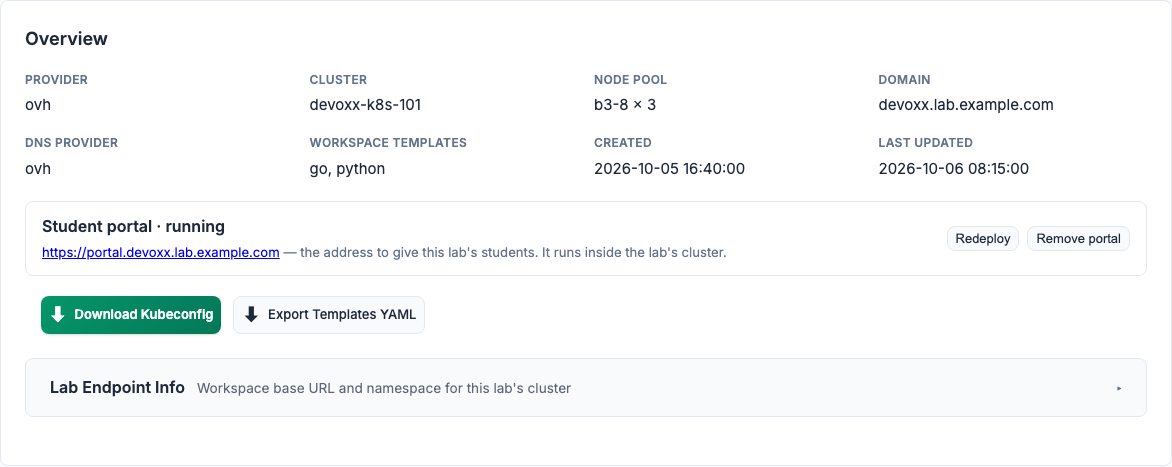
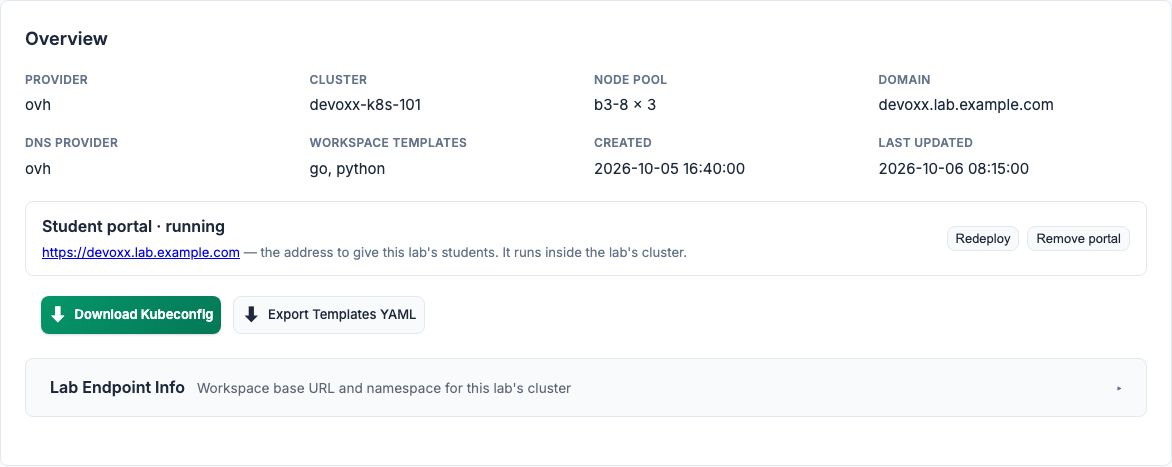
fix: URL for student portal

Changed region(s): [[0.0614, 0.5096, 0.6143, 0.5696]]

diff --git a/web/admin.html b/web/admin.html
@@ -631,7 +631,7 @@
                                 </label>
                             </div>
                             {{if .PortalAvailable}}
-                            <small>Runs the student portal inside the lab's own cluster, at <code>portal.&lt;lab domain&gt;</code>, next to the workspaces it hands out. Students of this lab then keep working even when this admin instance is unreachable. On by default; it can also be turned on or off later from the lab's page.</small>
+                            <small>Runs the student portal inside the lab's own cluster, on the lab's own domain, next to the workspaces it hands out. Students of this lab then keep working even when this admin instance is unreachable. On by default; it can also be turned on or off later from the lab's page.</small>
                             {{else}}
                             <small>Not available on this build: it is a development build, so there is no published EasyLab image of the same version for the portal to run. Students use this instance's student space instead. To try a portal anyway, set a portal image built from this code in <a href="/admin/student-portals">Student portals</a>.</small>
                             {{end}}

diff --git a/internal/providers/workspace/kube/portal_test.go b/internal/providers/workspace/kube/portal_test.go
@@ -54,7 +54,7 @@ func TestEnsurePortal_CreatesEverything(t *testing.T) {
 
 	url, err := b.EnsurePortal(ctx, spec)
 	require.NoError(t, err)
-	assert.Equal(t, "https://portal.lab.example.com", url)
+	assert.Equal(t, "https://lab.example.com", url)
 
 	name := portalName("lab-1")
 
@@ -95,7 +95,7 @@ func TestEnsurePortal_CreatesEverything(t *testing.T) {
 
 	ing, err := cs.NetworkingV1().Ingresses(portalTestNS).Get(ctx, name, metav1.GetOptions{})
 	require.NoError(t, err)
-	assert.Equal(t, "portal.lab.example.com", ing.Spec.Rules[0].Host)
+	assert.Equal(t, "lab.example.com", ing.Spec.Rules[0].Host)
 	require.Len(t, ing.Spec.TLS, 1)
 	assert.Equal(t, "easylab-wildcard-tls", ing.Spec.TLS[0].SecretName)
 	assert.NotContains(t, ing.Annotations, clusterIssuerAnnotation)
@@ -207,9 +207,9 @@ func TestEnsurePortal_TLSSources(t *testing.T) {
 		wantSecret    string
 		wantIssuer    string
 	}{
-		{name: "wildcard secret wins", wildcard: "wild", clusterIssuer: "letsencrypt", wantURL: "https://portal.lab.example.com", wantSecret: "wild"},
-		{name: "per-host certificate", clusterIssuer: "letsencrypt", wantURL: "https://portal.lab.example.com", wantSecret: portalName("lab-1") + "-tls", wantIssuer: "letsencrypt"},
-		{name: "no certificate source", wantURL: "http://portal.lab.example.com"},
+		{name: "wildcard secret wins", wildcard: "wild", clusterIssuer: "letsencrypt", wantURL: "https://lab.example.com", wantSecret: "wild"},
+		{name: "per-host certificate", clusterIssuer: "letsencrypt", wantURL: "https://lab.example.com", wantSecret: portalName("lab-1") + "-tls", wantIssuer: "letsencrypt"},
+		{name: "no certificate source", wantURL: "http://lab.example.com"},
 	}
 	for _, tt := range tests {
 		t.Run(tt.name, func(t *testing.T) {
@@ -260,7 +260,7 @@ func TestEnsurePortal_Reconciles(t *testing.T) {
 	spec.Config = map[string][]byte{"state.json": []byte("v2")}
 	url, err := b.EnsurePortal(ctx, spec)
 	require.NoError(t, err)
-	assert.Equal(t, "https://portal.new.example.com", url)
+	assert.Equal(t, "https://new.example.com", url)
 
 	name := portalName("lab-1")
 	dep, err := cs.AppsV1().Deployments(portalTestNS).Get(ctx, name, metav1.GetOptions{})
@@ -269,7 +269,7 @@ func TestEnsurePortal_Reconciles(t *testing.T) {
 
 	ing, err := cs.NetworkingV1().Ingresses(portalTestNS).Get(ctx, name, metav1.GetOptions{})
 	require.NoError(t, err)
-	assert.Equal(t, "portal.new.example.com", ing.Spec.Rules[0].Host)
+	assert.Equal(t, "new.example.com", ing.Spec.Rules[0].Host)
 	require.Len(t, ing.Spec.TLS, 1)
 	assert.Equal(t, "wild", ing.Spec.TLS[0].SecretName)
 
@@ -301,7 +301,7 @@ func TestEnsurePortal_NipIOFallback(t *testing.T) {
 	spec.ClusterIssuer = "letsencrypt"
 	url, err := b.EnsurePortal(ctx, spec)
 	require.NoError(t, err)
-	assert.Equal(t, "http://portal.203.0.113.7.nip.io", url)
+	assert.Equal(t, "http://203.0.113.7.nip.io", url)
 
 	role, err := cs.RbacV1().Roles(ingressControllerNamespace).Get(ctx, portalName("lab-1")+portalIngressAccessSuffix, metav1.GetOptions{})
 	require.NoError(t, err)

diff --git a/internal/server/portal_test.go b/internal/server/portal_test.go
@@ -238,7 +238,7 @@ func TestReconcilePortal_RecordsFailure(t *testing.T) {
 	t.Run("cluster refuses", func(t *testing.T) {
 		t.Setenv(EnvPortalImage, testPortalImage)
 		h, id, fb := newPortalLab(t, nil)
-		fb.portalEnsureErr = fmt.Errorf("portal host portal.lab.example.com is already used by lab job-other")
+		fb.portalEnsureErr = fmt.Errorf("portal host lab.example.com is already used by lab job-other")
 
 		h.reconcilePortal(id)
 		assert.Contains(t, h.portalError(id), "already used")
@@ -255,7 +255,7 @@ func TestReconcilePortal_RecordsFailure(t *testing.T) {
 		display = h.portalDisplayFor(context.Background(), mustJob(t, h, id))
 		assert.True(t, display.Deployed)
 		assert.True(t, display.Ready)
-		assert.Equal(t, "https://portal.lab.example.com", display.URL)
+		assert.Equal(t, "https://lab.example.com", display.URL)
 	})
 }
 
@@ -421,7 +421,7 @@ func TestBrokerPortal(t *testing.T) {
 
 		portalURL, secret, ok := h.BrokerPortal(id)
 		require.True(t, ok)
-		assert.Equal(t, "https://portal.lab.example.com", portalURL)
+		assert.Equal(t, "https://lab.example.com", portalURL)
 		assert.NotEmpty(t, secret)
 	})
 
@@ -433,7 +433,7 @@ func TestBrokerPortal(t *testing.T) {
 
 		portalURL, _, ok := h.BrokerPortal(id)
 		require.True(t, ok)
-		assert.Equal(t, "https://portal.lab.example.com", portalURL)
+		assert.Equal(t, "https://lab.example.com", portalURL)
 	})
 
 	refused := []struct {
@@ -711,7 +711,7 @@ func TestServeLabDetail_StudentPortal(t *testing.T) {
 	}{
 		{
 			name: "deployed portal", enabled: true, publicURL: "https://admin.example.com",
-			contains:     []string{"Student portal &middot; running", "https://portal.lab.example.com/student/login", "Redeploy", "Remove portal"},
+			contains:     []string{"Student portal &middot; running", "https://lab.example.com/student/login", "Redeploy", "Remove portal"},
 			doesNotMatch: []string{"Password sign-in only", "Deploy student portal"},
 		},
 		{

diff --git a/internal/providers/workspace/kube/portal.go b/internal/providers/workspace/kube/portal.go
@@ -42,8 +42,6 @@ const (
 	// controller's namespace for a lab without a domain (see ensurePortalRBAC).
 	portalIngressAccessSuffix = "-ingress"
 
-	// portalHostLabel is the DNS label the portal is served under: "portal.{domain}".
-	portalHostLabel = "portal"
 	// portalContainerPort is the port the EasyLab server listens on in the image.
 	portalContainerPort = 8080
 	portalContainerName = "portal"
@@ -453,7 +451,13 @@ func (b *Backend) EnsurePortal(ctx context.Context, spec workspace.PortalSpec) (
 		WildcardTLSSecret: spec.WildcardTLSSecret,
 		ClusterIssuer:     spec.ClusterIssuer,
 	})
-	host := workspaceHost(portalHostLabel, routed.Domain)
+	// The portal is served on the lab's domain itself, not a subdomain of it. That
+	// name is the one thing every lab with a domain is sure to have: provisioning
+	// creates its A record and puts it on the wildcard certificate, and a lab with
+	// manually managed DNS has it by definition — whereas a "portal." subdomain only
+	// resolves where a wildcard record happens to exist. Workspaces and the
+	// registry live on subdomains, so nothing else answers there.
+	host := strings.TrimSpace(routed.Domain)
 	if host != "" {
 		owner, err := b.portalHostOwner(ctx, spec.LabID, host)
 		if err != nil {

diff --git a/internal/server/broker_test.go b/internal/server/broker_test.go
@@ -18,7 +18,7 @@ import (
 const (
 	testBrokerSecret = "0123456789abcdefghijklmn"
 	testBrokerLab    = "job-lab"
-	testPortalURL    = "https://portal.lab.example.com"
+	testPortalURL    = "https://lab.example.com"
 	testAdminURL     = "https://admin.example.com"
 )
 
@@ -270,7 +270,7 @@ func TestBrokeredSignIn_EndToEnd(t *testing.T) {
 	require.Equal(t, http.StatusSeeOther, w.Code)
 	back, err := url.Parse(w.Header().Get("Location"))
 	require.NoError(t, err)
-	assert.Equal(t, "portal.lab.example.com", back.Host)
+	assert.Equal(t, "lab.example.com", back.Host)
 	assert.Equal(t, portalBrokerCallbackPath, back.Path)
 	assert.Empty(t, studentSessionEmails(central))
 	assert.Nil(t, cookieNamed(w, StudentSessionCookieName))

diff --git a/internal/providers/workspace/provider.go b/internal/providers/workspace/provider.go
@@ -409,7 +409,7 @@ type PortalSpec struct {
 	// Image is the EasyLab image the portal runs.
 	Image string
 	// Domain, WildcardTLSSecret and ClusterIssuer expose the portal the same way a
-	// workspace is exposed (see Spec): under "portal.{Domain}", with the lab's
+	// workspace is exposed (see Spec): on "{Domain}" itself, with the lab's
 	// wildcard certificate when it has one, else a per-host certificate. An empty
 	// Domain falls back to the backend's own routing (nip.io over plain HTTP).
 	Domain            string

diff --git a/internal/server/portal_fake_test.go b/internal/server/portal_fake_test.go
@@ -41,7 +41,7 @@ func newFakePortalBackend() *fakePortalBackend {
 	return &fakePortalBackend{
 		fakeBackend: fakeBackend{reachable: true},
 		outbox:      map[string]string{},
-		url:         "https://portal.lab.example.com",
+		url:         "https://lab.example.com",
 	}
 }
 

diff --git a/docs/student-portal.md b/docs/student-portal.md
@@ -11,8 +11,8 @@ inside each lab's own cluster**, next to the workspaces it hands out.
 
 What that changes:
 
-* **Each lab has its own address** for students — `https://portal.<lab domain>` — instead
-  of every lab sharing the central one.
+* **Each lab has its own address** for students — the lab's domain, `https://<lab domain>`
+  — instead of every lab sharing the central one.
 * **A lab keeps working without the admin.** The portal serves students from a copy of
   the lab's configuration stored in its cluster, so they can sign in with the password,
   request and open workspaces while the central instance is down or unreachable.
@@ -46,15 +46,18 @@ Nothing changes for an existing deployment: without the option, the mode is `all
   **Overview** tab has a **Student portal** strip with a **Deploy student portal** button.
   See [Managing labs](admin-lab-management.md#student-portal).
 
-The portal is served at `portal.<lab domain>`, with the same certificate as the lab's
-workspaces (the wildcard certificate when the lab has a DNS provider, a certificate of
-its own otherwise). A lab without a domain gets `http://portal.<ingress IP>.nip.io`, like
-its workspaces.
+The portal is served on **the lab's domain itself** — the one you entered when creating
+the lab, e.g. `https://lab.example.com` — while workspaces stay on its subdomains
+(`https://<workspace>.lab.example.com`). There is no extra DNS record to create: that
+name already resolves to the lab's cluster (EasyLab creates the record when it manages
+the lab's DNS, and you created it yourself otherwise), and it is covered by the lab's
+certificate (the wildcard certificate when the lab has a DNS provider, a certificate of
+its own otherwise). A lab without a domain gets `http://<ingress IP>.nip.io`.
 
 !!! note "Two labs on one domain"
-    Two labs sharing both a namespace and a domain on the same cluster cannot both be
-    served at `portal.<domain>`. The second one is refused, and the lab's page says which
-    lab already holds the address.
+    Two labs sharing both a namespace and a domain on the same cluster cannot both have a
+    portal on that domain. The second one is refused, and the lab's page says which lab
+    already holds the address.
 
 ## Configuration
 

diff --git a/docs/student.md b/docs/student.md
@@ -12,9 +12,9 @@ Every student page shows the EasyLab copyright and version in a footer at the bo
 
 !!! note "Which address do I use?"
     Your workshop organiser gives you the address of the student space. It is either a
-    shared one for every lab, or one dedicated to your lab (it then starts with
-    `portal.`). A dedicated one works exactly as described on this page, shows only that
-    lab, and opens straight on the login page. Organisers: see
+    shared one for every lab, or one dedicated to your lab (the lab's own domain). A
+    dedicated one works exactly as described on this page, shows only that lab, and
+    opens straight on the login page. Organisers: see
     [In-lab student portal](student-portal.md).
 
 ## Login

diff --git a/docs/admin-lab-creation.md b/docs/admin-lab-creation.md
@@ -106,7 +106,7 @@ configure. On the **Workspace** step you only set:
 * **Workspace Namespace** (optional) — the Kubernetes namespace student
   workspaces are created in. Defaults to `workshops`.
 * **Deploy a dedicated student portal in this lab** — checked by default. Runs
-  the student portal inside the lab's own cluster, at `portal.<lab domain>`,
+  the student portal inside the lab's own cluster, on the lab's domain itself,
   instead of sending this lab's students to the central instance. They can then
   keep working while the admin instance is unreachable. Uncheck it to keep this
   lab on the central student space; either way it can be changed later from the
